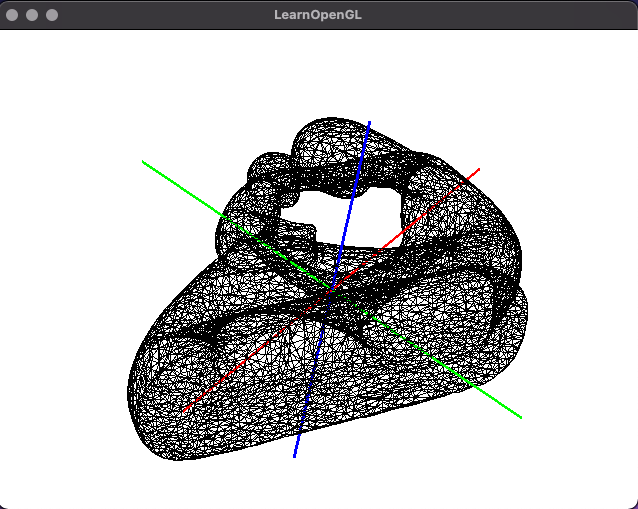
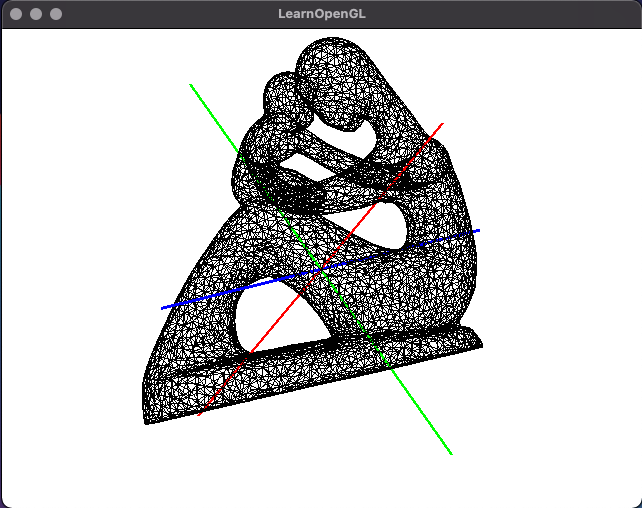
fix; bug of Skew_squared

diff --git a/task11/main.cpp b/task11/main.cpp
@@ -81,8 +81,8 @@ void InertiaTensor(
         } else {
             kronecker = 0.0;
         }
-        // Imat += (ap[it].transpose() * ap[j] * Eigen::Matrix3d::Identity() - ap[it] * ap[j].transpose()) * area / 12 * (1 + kronecker);
-        Imat += Skew_Squared(ap[i]) * Skew_Squared(ap[j]) * area / 12 * (1 + kronecker);
+        Imat += (ap[i].transpose() * ap[j] * Eigen::Matrix3d::Identity() - ap[i] * ap[j].transpose()) * area / 12 * (1 + kronecker);
+        // Imat += Skew_Squared(ap[i]) * Skew_Squared(ap[j]) * area / 12 * (1 + kronecker);
       }
     }
   }

diff --git a/task11/README.md b/task11/README.md
@@ -55,9 +55,9 @@ The inertia tensor should computed for the **rotation around the origin of the c
 The line in red, blue and green are the principal axes of the inertia tensor.
 
 Write down the eigenvalues of the inertia tensor below (they will be shown in the standard output):
-- 1st eigenvalue: 3.8399e+11 
-- 2nd eigenvalue: 1.18868e+12 
-- 3rd eigenvalue: 1.48606e+12 
+- 1st eigenvalue: 8.97496e+07 
+- 2nd eigenvalue: 1.81004e+08 
+- 3rd eigenvalue: 2.34771e+08 
 
 
 Paste the screenshot image below:
